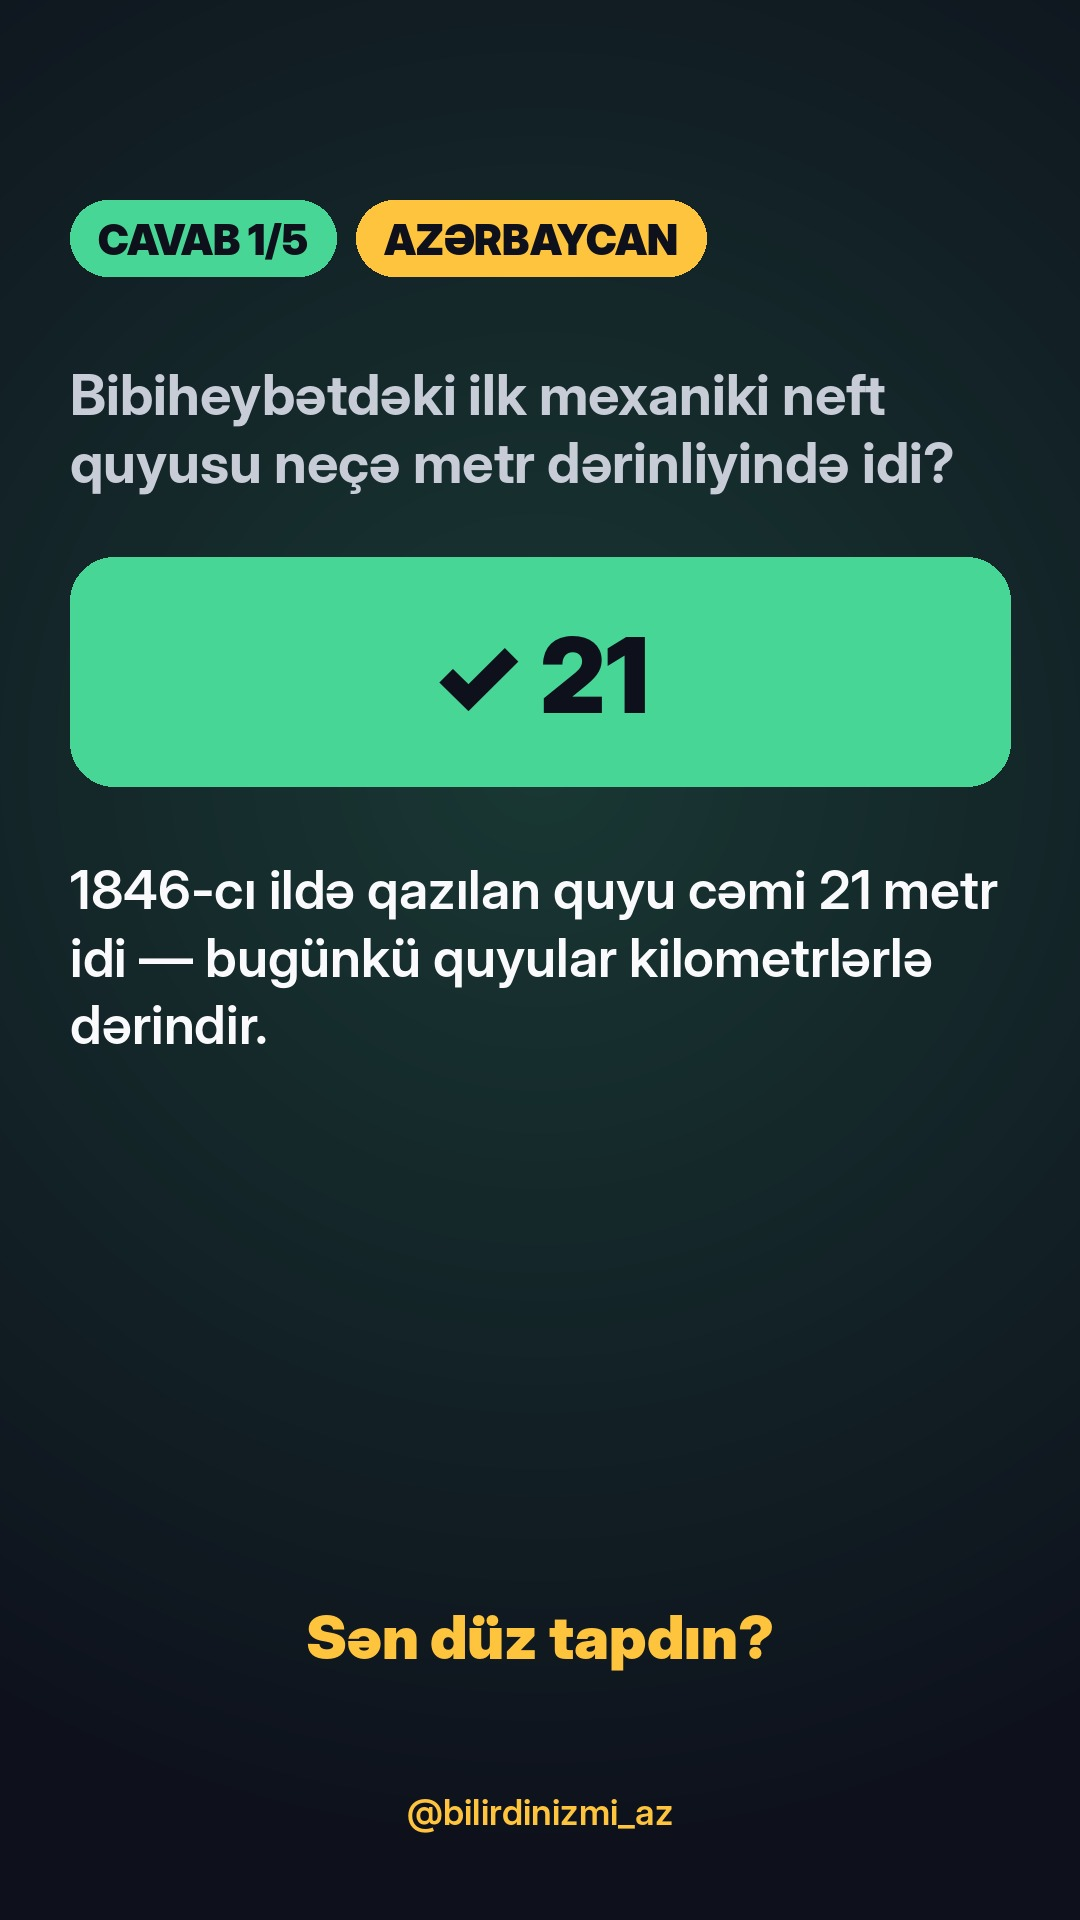
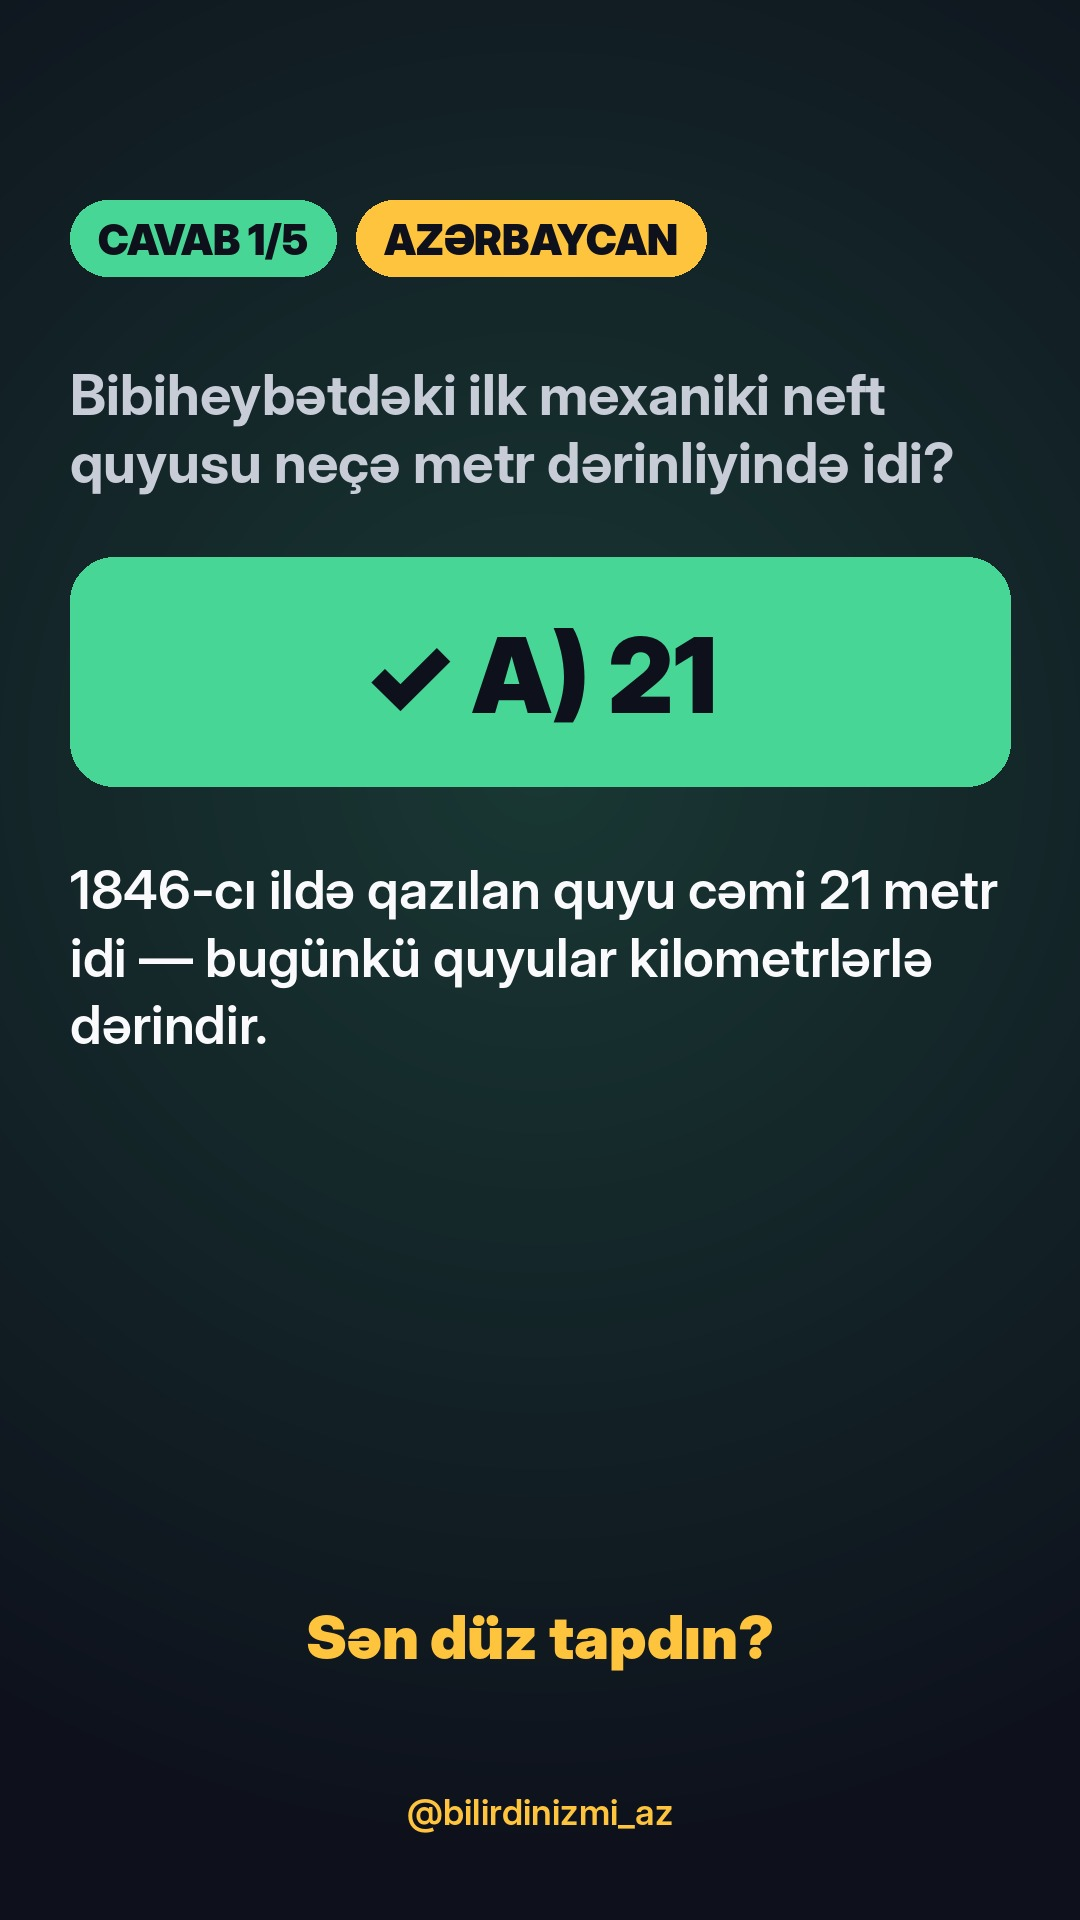
Quiz stories with printed options (fully automatic), 2026-10-17 re-rendered
Claude-Session: https://claude.ai/code/session_01PoetfAheiVJ4b9x4Dv9CQD

Changed region(s): [[0.3361, 0.3125, 0.6722, 0.375]]

diff --git a/factgen.py b/factgen.py
@@ -214,9 +214,20 @@ def quizstory(photo, out, c):
     if c.get("recall"):
         d.text((70, 310), "Keçən paylaşımlarımızdan", font=F("SemiBold", 40), fill=(200, 204, 215))
     y = text_block(d, 70, 380, c["q"], F("Black", 80), WHITE, W - 140, lh=1.15)
-    hint = "Cavabı seç ↓"
-    d.text(((W - d.textlength(hint, font=F("SemiBold", 48))) / 2, y + 50), hint, font=F("SemiBold", 48), fill=GOLD)
-    # poll sticker goes in the free band below the hint (≈ y+150 … 1440)
+    if c.get("options"):   # printed options (fully automatic stories, no poll sticker)
+        oy = max(y + 90, 760); fo = F("Bold", 58); fl = F("Black", 58)
+        for i, opt in enumerate(c["options"]):
+            d.rounded_rectangle([70, oy, W - 70, oy + 150], 36, fill=(32, 38, 56))
+            d.rounded_rectangle([100, oy + 30, 190, oy + 120], 24, fill=col)
+            L = "ABCD"[i]; d.text((145 - d.textlength(L, font=fl) / 2, oy + 38), L, font=fl, fill=INK)
+            d.text((225, oy + 42), opt, font=fo, fill=WHITE)
+            oy += 180
+        hint = "Fikirləş… cavab növbəti hekayədə →"
+        d.text(((W - d.textlength(hint, font=F("SemiBold", 46))) / 2, oy + 50), hint, font=F("SemiBold", 46), fill=GOLD)
+    else:
+        hint = "Cavabı seç ↓"
+        d.text(((W - d.textlength(hint, font=F("SemiBold", 48))) / 2, y + 50), hint, font=F("SemiBold", 48), fill=GOLD)
+    # (without options) poll sticker goes in the free band below the hint (≈ y+150 … 1440)
     if c.get("prev"):
         p = c["prev"]; top = 1470
         d.rounded_rectangle([70, top, W - 70, top + 250], 36, fill=(28, 34, 50))

diff --git a/quizplan.py b/quizplan.py
@@ -79,11 +79,13 @@ def main():
 
     os.makedirs(os.path.join(ROOT, f"out/{D}"), exist_ok=True)
     for i, s in enumerate(stories, 1):
-        cfg = {"n": f"{i}/5", "cat": s["cat"], "q": s["q"], "prev": None, "recall": s["recall"]}
+        cfg = {"n": f"{i}/{len(stories)}", "cat": s["cat"], "q": s["q"], "prev": None, "recall": s["recall"],
+               "options": s["options"]}
         out = f"out/{D}/q{i}.jpg"; outa = f"out/{D}/q{i}_a.jpg"
         subprocess.run([sys.executable, os.path.join(ROOT, "factgen.py"), "quizstory", "none",
                         os.path.join(ROOT, out), json.dumps(cfg, ensure_ascii=False)], check=True)
-        acfg = {"n": f"{i}/5", "cat": s["cat"], "q": s["q"], "a": s["answer"], "why": s["why"]}
+        L = "ABCD"[s["options"].index(s["answer"])] if s["answer"] in s["options"] else ""
+        acfg = {"n": f"{i}/{len(stories)}", "cat": s["cat"], "q": s["q"], "a": (f"{L}) " if L else "") + s["answer"], "why": s["why"]}
         subprocess.run([sys.executable, os.path.join(ROOT, "factgen.py"), "answerstory", "none",
                         os.path.join(ROOT, outa), json.dumps(acfg, ensure_ascii=False)], check=True)
         s["image"] = out; s["answer_image"] = outa
